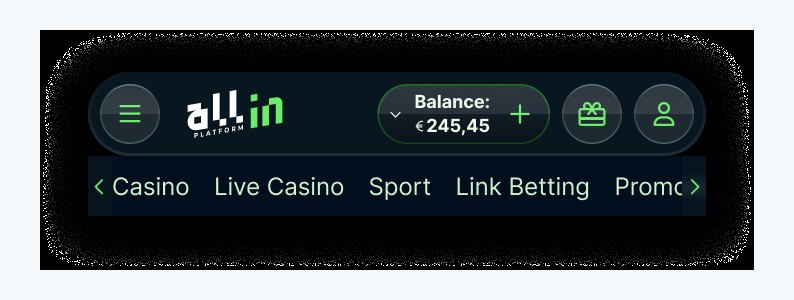
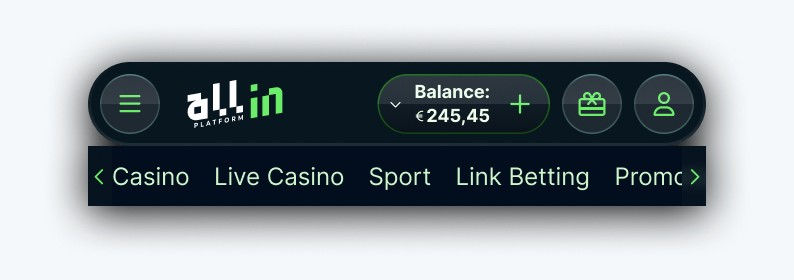
Case study: separate the earlier design iteration from the shipped bars
The browser checks are labelled as an earlier iteration; the final design
section shows the shipped Casino bar for guests and members and the Sports
bar. Bar images now sit on the page background instead of a black box.

diff --git a/src/content/projects/bottom-navigation.md b/src/content/projects/bottom-navigation.md
@@ -127,9 +127,10 @@ I also wrote success measures for each proposal, so the team would know whether 
 
 The final bars balanced my proposals with business requirements the Product team set. Live Casino and Promotions, which players rarely picked but the business relies on, took slots in the bar, and Account moved out of it.
 
-![The shipped Casino bar: Switch, Casino, Live Casino, Search, Promotions. Below it the Sports bar: Switch, Sport, Live Betting, Virtuals, Promotions.](/projects/bottom-navigation/shipped-bars.jpg)
+- **Casino:** Switch · Casino · Live Casino · Search · Promotions (My Bonuses for logged-in members)
+- **Sports:** Switch · Sport · Live Betting · Virtuals · Promotions
 
-*The two bars as shipped: Casino on top, Sports below. The active tab is green.*
+The final design of both bars is shown under [Design and implementation](#the-final-design).
 
 In markets without sports betting, players see only the Casino bar, without the switch. Because the switch has its own fixed slot on the far left, removing it leaves the other tabs in the same order. Players get the same layout in every market, and no market needs its own version of the bar.
 
@@ -147,21 +148,28 @@ I handed my low and mid-fidelity wireframes and the brief deck to the Product De
 
 The old navigation was a top bar with a row of categories that scrolled sideways. Stakeholders had already named this as a pain point in the interviews: whatever didn't fit on screen was effectively invisible. The new bar sits at the bottom, floats above the page, and shows every tab at once.
 
-### Details that came from the research
+### An earlier iteration
 
-- **The switch keeps its own place.** It is a round button in a fixed slot on the far left, separate from the tabs, so it never moves under the thumb of the players who switch often.
+The Product Design team went through several iterations before the final one. In this earlier version, the bar was dark and see-through, floating over the page content, and the current tab was not highlighted.
+
+We used this version to test something a floating bar has to survive: the browser's own toolbars, which sit in different places on iOS and Android. We checked it in Safari and Chrome on iOS, Chrome on Android and the installed web app, so it always sits clear of them.
+
+![An earlier iteration of the Casino bar in four environments: Safari on iOS, Chrome on iOS, Chrome on Android and the installed web app.](/projects/bottom-navigation/browsers.jpg)
+
+*An earlier iteration, checked in four environments. This is not the design that shipped; the final one follows below.*
+
+### The final design
+
+The shipped bar is solid rather than see-through, and the current tab is green, so players can always see where they are.
+
+![The shipped bars: the Casino bar for a guest ending in Promotions, for a member ending in My Bonuses, and the Sports bar.](/projects/bottom-navigation/final-bars.jpg)
+
+*The bars as shipped. For logged-in members the last Casino tab changes from Promotions to My Bonuses.*
+
+Several details came straight from the research:
+
+- **The switch keeps its own place.** It sits in a fixed slot on the far left, separate from the tabs, so it never moves under the thumb of the players who switch often.
 - **The last tab follows the player's state.** Guests see Promotions, the offer that brings them in. Logged-in members see My Bonuses, the bonuses they already have. Players had told us that bonuses are one of the main reasons they come back.
-
-![The Casino bar for a guest, ending in Promotions, and for a member, ending in My Bonuses.](/projects/bottom-navigation/guest-member.jpg)
-
-*The same bar for a guest and for a logged-in member: only the last tab changes.*
-
-- **It had to work in every browser.** A floating bar can clash with the browser's own toolbars, which sit in different places on iOS and Android. We checked it in Safari and Chrome on iOS, Chrome on Android and the installed web app, so it always sits clear of them.
-
-![The Casino bar in four environments: Safari on iOS, Chrome on iOS, Chrome on Android and the installed web app.](/projects/bottom-navigation/browsers.jpg)
-
-*The bar in four environments. It keeps clear of each browser's toolbars.*
-
 - **One component for every brand.** The bar is part of the platform's design system, so any brand can use it. Brands in markets without sports betting simply don't show the switch or the Sports bar.
 
 ### Results
